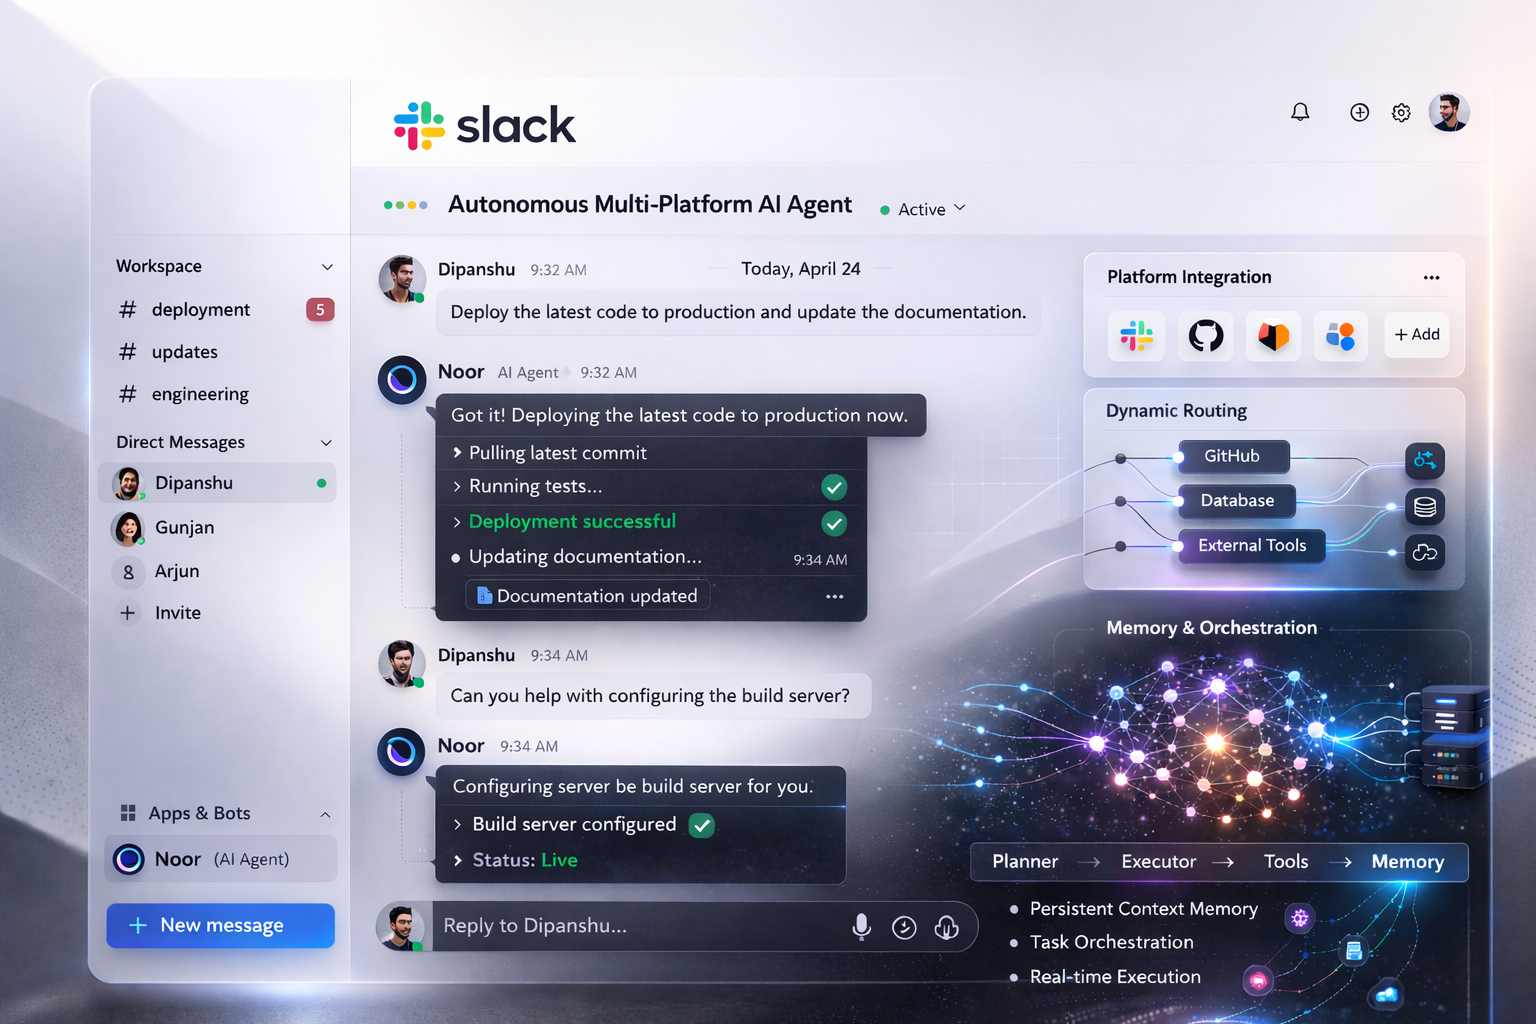
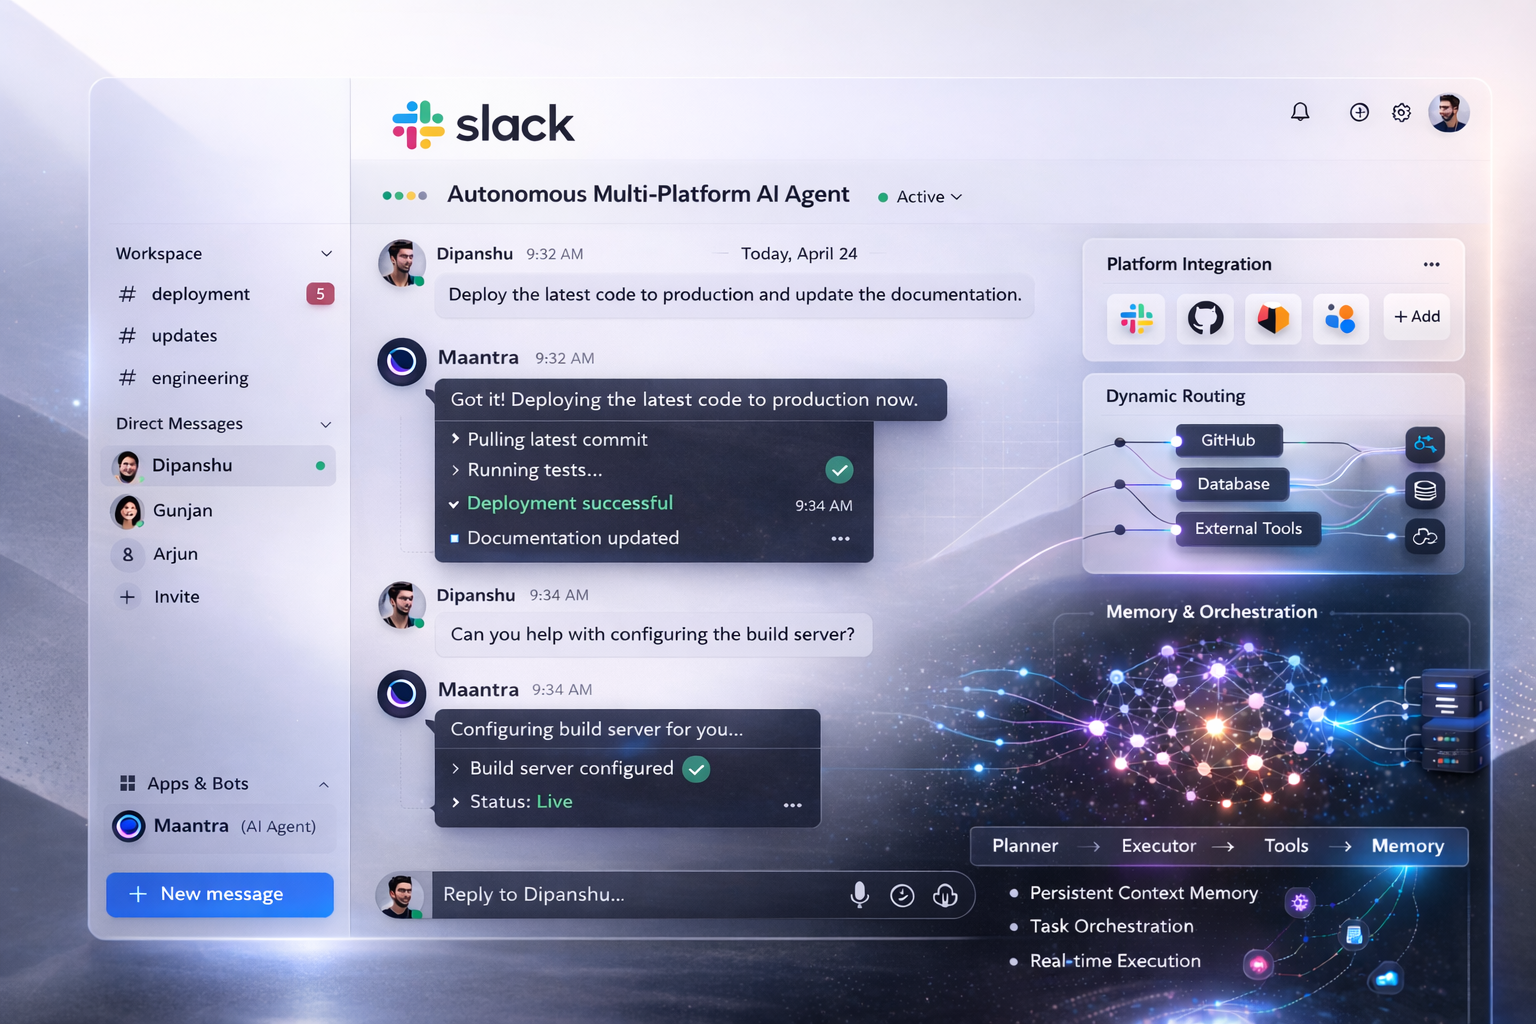
Edit links and images

diff --git a/src/App.tsx b/src/App.tsx
@@ -99,20 +99,20 @@ const projects: Project[] = [
     tech: ["Python", "FastAPI", "TypeScript", "React", "PostgreSQL", "Alembic"],
     highlights: ["Integrity scoring workflows", "Automated LLM-assisted evaluation", "Live analytics for instructors"],
     github: "https://github.com/dipanshuchoudhary-data/Quizzer",
-    demo: "#",
+    demo: "https://quizzer-f89iltr0z-dipanshu-choudharys-projects.vercel.app",
     gradient: "linear-gradient(140deg, rgba(38, 82, 126, 0.55), rgba(35, 52, 94, 0.45), rgba(20, 31, 58, 0.6))",
-    image: "public\\quizzer.png"
+    image: "/quizzer.png"
   },
   {
     number: "Project 2",
     title: "Autonomous Multi-Platform AI Agent",
     oneLine: "Autonomous agent system built for cross-platform execution with memory-aware task orchestration.",
-    tech:["Node.js", "TypeScript", "Slack Bolt", "LLMs", "RAG", "ChromaDB", "mem0.ai", "MCP"],
+    tech:["Python","Slack Bolt", "LLMs", "RAG", "ChromaDB", "mem0.ai", "MCP"],
     highlights: ["Planner and executor multi-agent flow", "Persistent contextual memory", "Dynamic tool routing"],
-    github: "https://github.com/dipanshuchoudhary-data/Slack-Bot",
+    github: "https://github.com/dipanshuchoudhary-data/Maantra-1.0",
     demo: "#",
     gradient: "linear-gradient(145deg, rgba(29, 71, 69, 0.55), rgba(35, 56, 90, 0.48), rgba(19, 33, 54, 0.58))",
-    image: "public\\Noor.png"
+    image: "/Noor.png"
   },
   {
     number: "Project 3",
